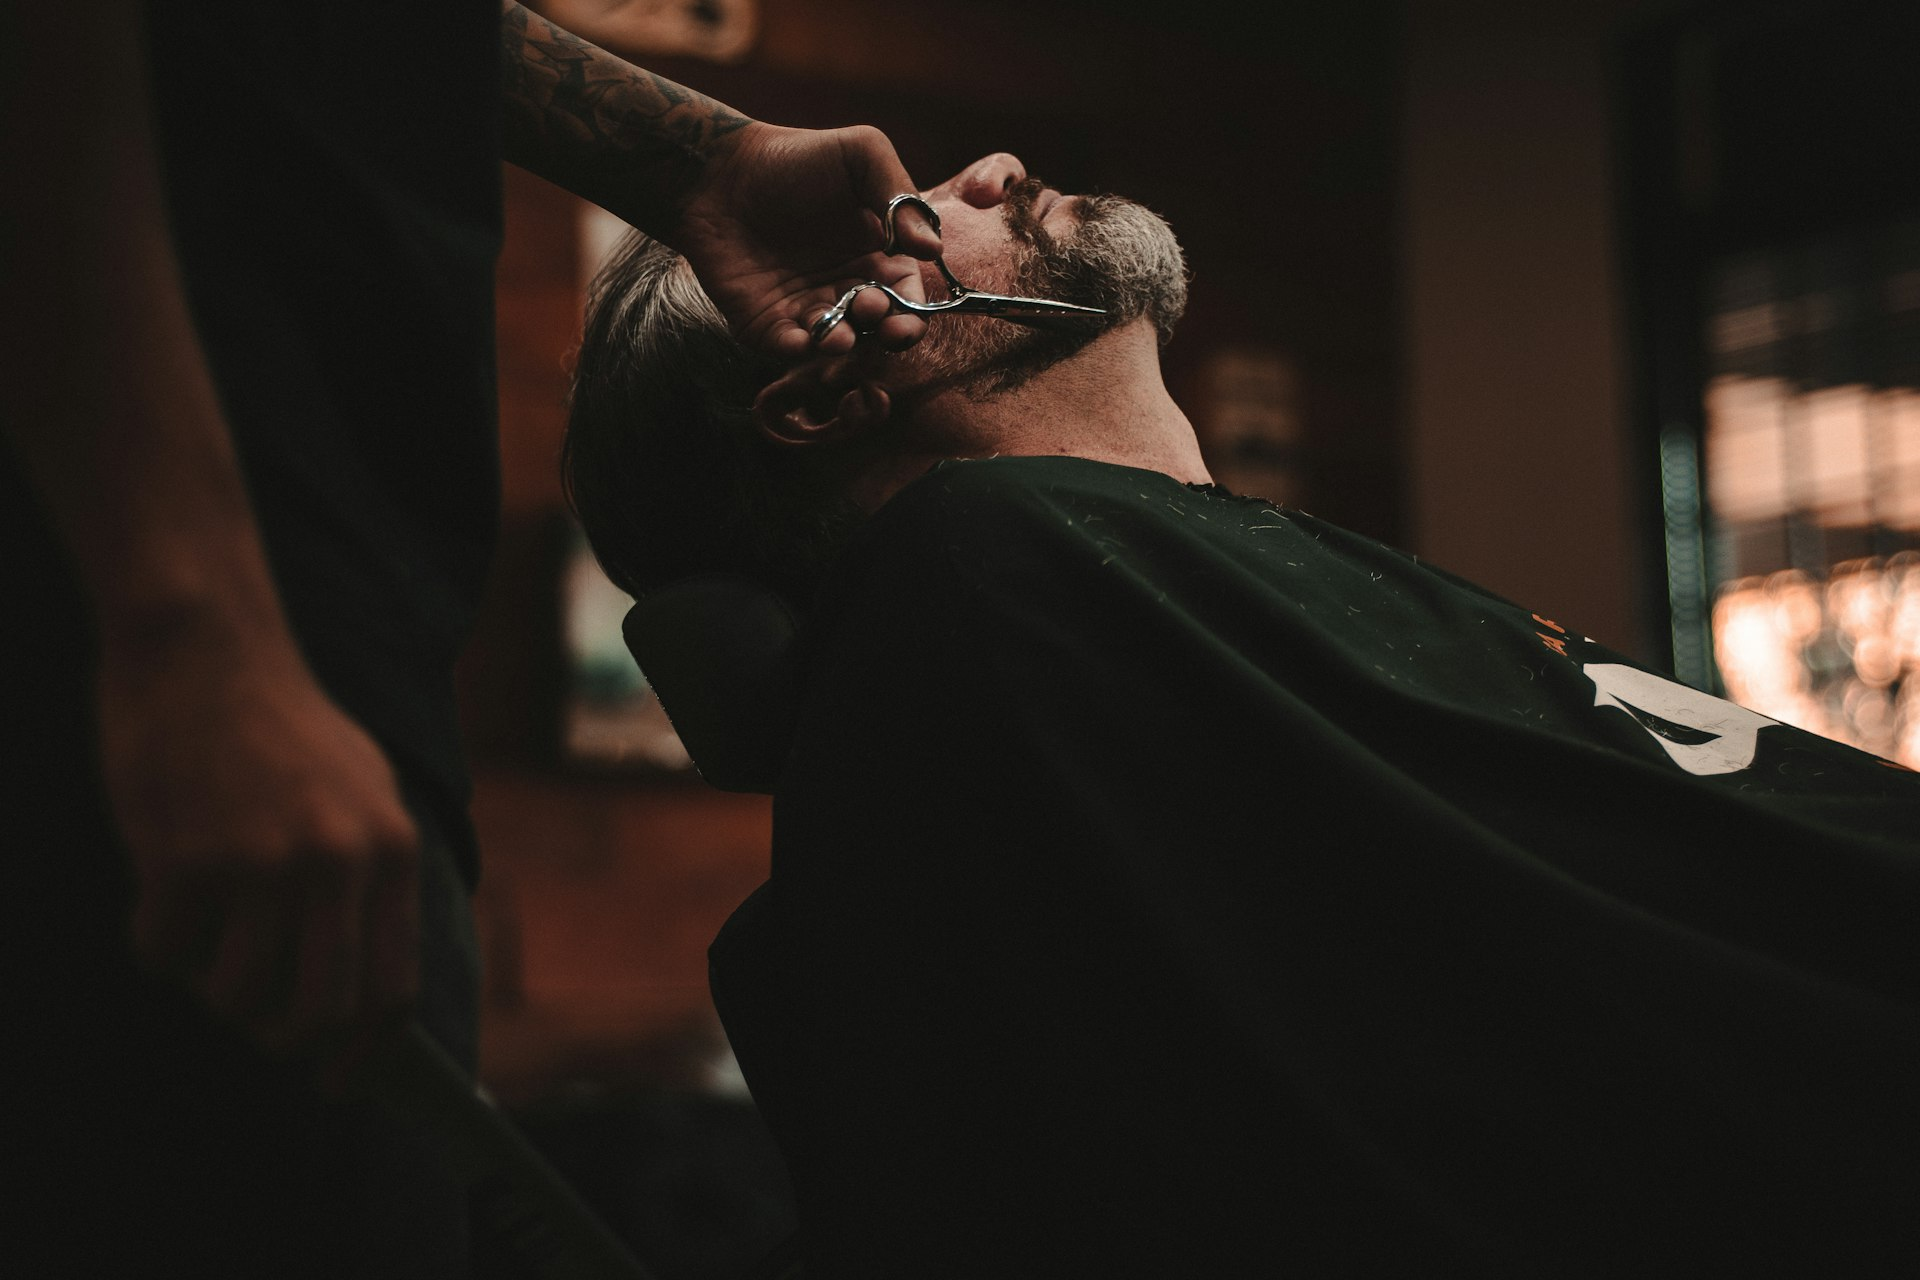
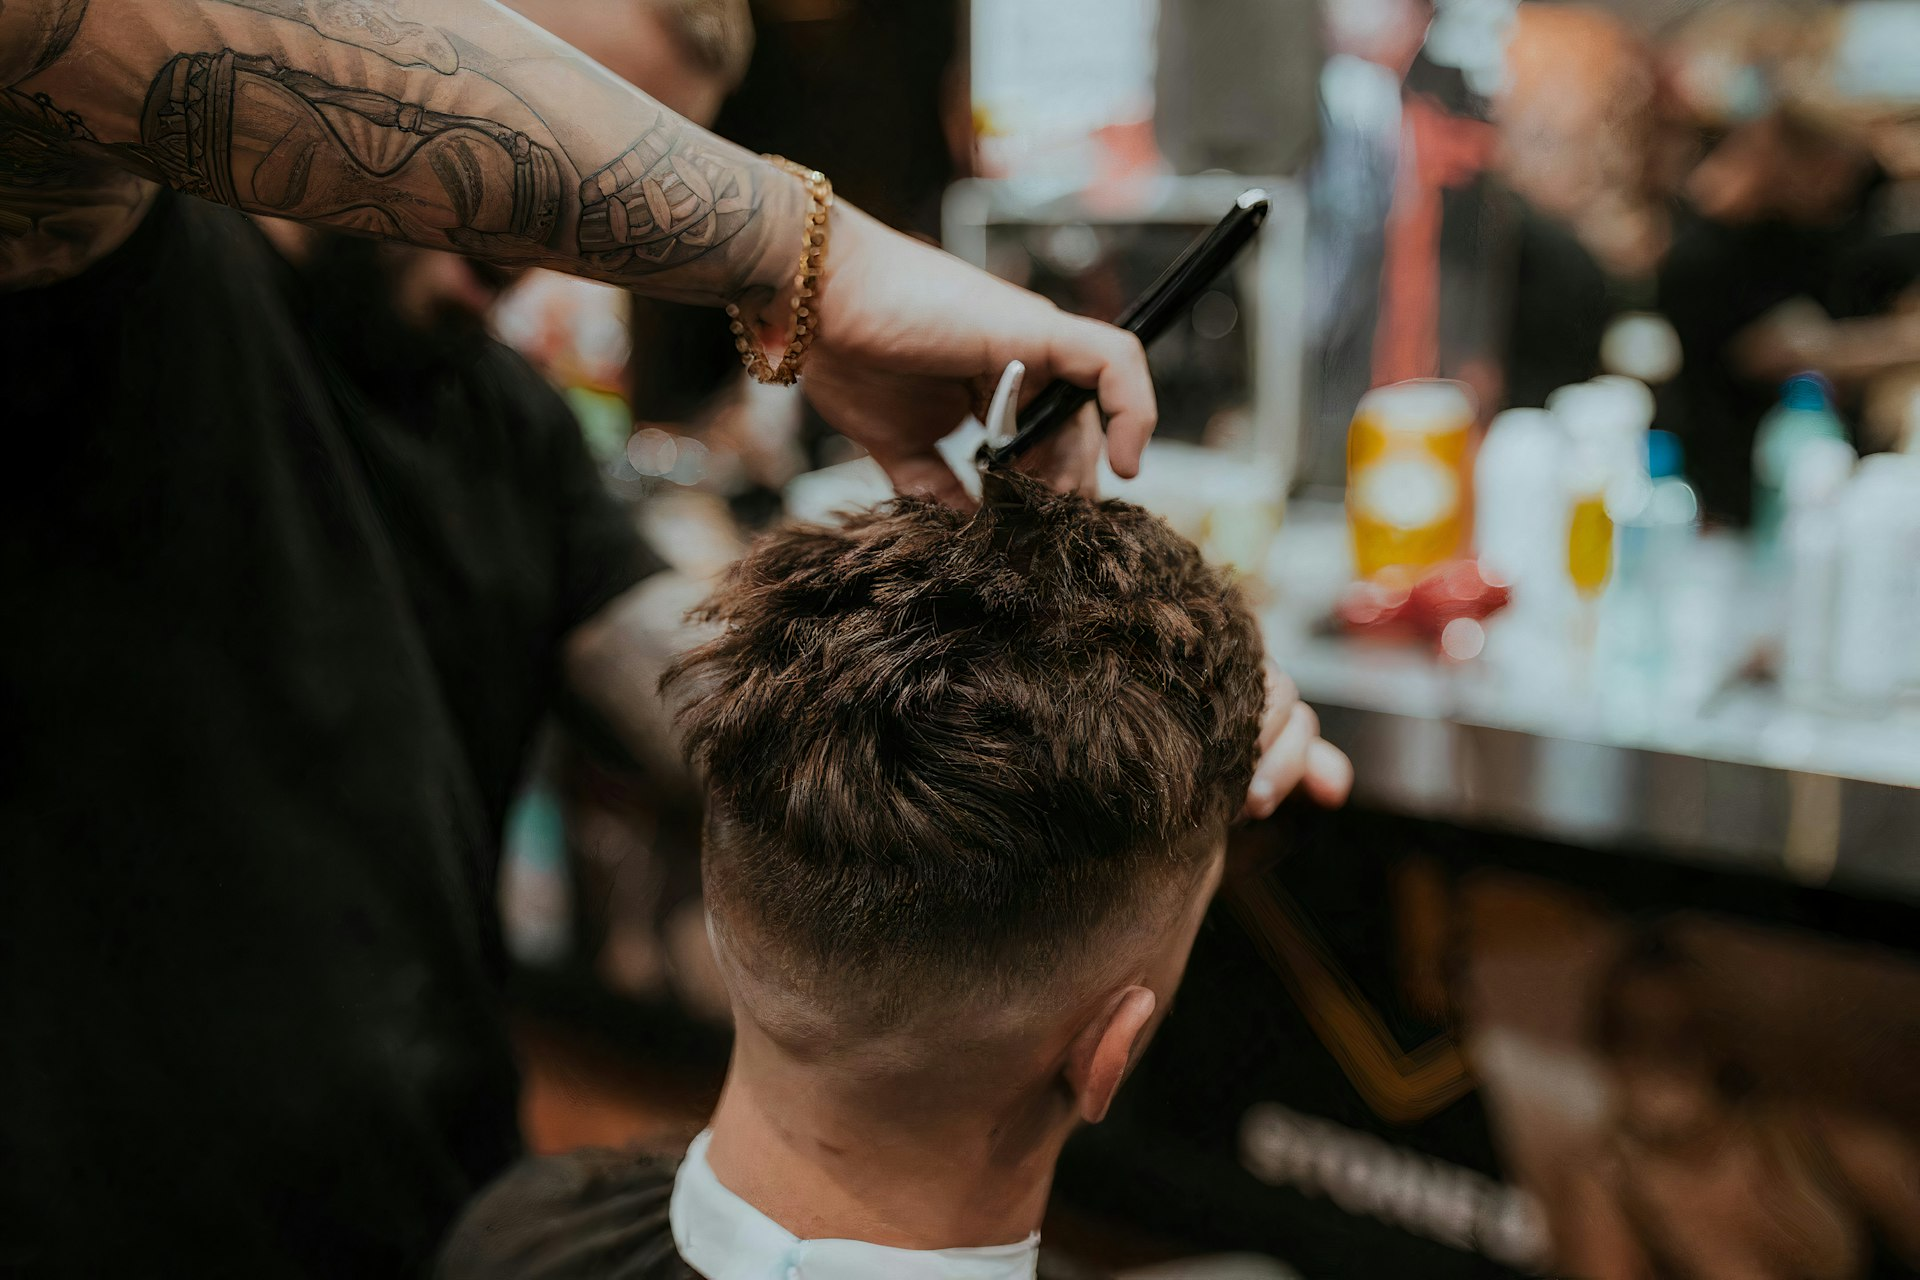
fix: web pública — team centrado, galería con fotos reales, footer responsive, reservas header

diff --git a/src/components/web/barbers/TheTeam.tsx b/src/components/web/barbers/TheTeam.tsx
@@ -4,12 +4,14 @@ const BARBERS = [
     specialty: "ESPECIALISTA EN CORTE",
     description:
       "Barbero con años de experiencia, especializado en cortes modernos y clásicos.",
+    photo: "/barbers/amado.jpg",
   },
   {
     name: "LUCAS FRENCHI",
     specialty: "ESPECIALISTA EN BARBA",
     description:
       "Apasionado por el detalle, experto en arreglo y perfilado de barba.",
+    photo: "/barbers/lucas.jpg",
   },
 ];
 
@@ -35,10 +37,15 @@ export function TheTeam() {
         </div>
 
         {/* Cards */}
-        <div className="grid grid-cols-1 sm:grid-cols-2 gap-10 max-w-2xl">
-          {BARBERS.map(({ name, specialty, description }) => (
+        <div className="grid grid-cols-1 md:grid-cols-2 gap-10 max-w-3xl mx-auto w-full">
+          {BARBERS.map(({ name, specialty, description, photo }) => (
             <div key={name} className="flex flex-col gap-4">
-              <div className="bg-zinc-800 w-full aspect-[3/4]" />
+              {/* eslint-disable-next-line @next/next/no-img-element */}
+              <img
+                src={photo}
+                alt={name}
+                className="w-full aspect-[3/4] object-cover object-center"
+              />
               <div className="flex flex-col gap-1 pb-5 border-b border-zinc-700">
                 <p className="text-[var(--color-accent)] text-[10px] tracking-widest uppercase font-semibold">
                   {specialty}

diff --git a/src/app/(web)/gallery/page.tsx b/src/app/(web)/gallery/page.tsx
@@ -9,19 +9,19 @@ export default function GalleryPage() {
       <GallerySection
         title="CORTES"
         subtitle="— CORTES DE PRIMER NIVEL"
-        images={["", "", "", ""]}
+        images={["/gallery/haircut-1.jpg", "/gallery/haircut-2.jpg", "/gallery/haircut-3.jpg", "/gallery/haircut-4.jpg"]}
         cols={4}
       />
       <GallerySection
         title="BARBA"
         subtitle="— NUNCA PASA DE MODA"
-        images={["", "", "", ""]}
+        images={["/gallery/beard-1.jpg", "/gallery/beard-2.jpg", "/gallery/beard-3.jpg", "/gallery/beard-4.jpg"]}
         cols={4}
       />
       <GalleryCarousel
         title="BIGOTE"
         subtitle="— LA ELECCIÓN CLÁSICA"
-        images={["", "", ""]}
+        images={["/gallery/mustache-1.jpg", "/gallery/mustache-2.jpg", "/gallery/mustache-3.jpg"]}
       />
     </main>
   );

diff --git a/src/components/web/barbers/BarbersHero.tsx b/src/components/web/barbers/BarbersHero.tsx
@@ -4,7 +4,7 @@ export function BarbersHero() {
 
       {/* eslint-disable-next-line @next/next/no-img-element */}
       <img
-        src="/services-bg.jpg"
+        src="/barbers-bg.jpg"
         alt=""
         aria-hidden="true"
         className="absolute inset-0 w-full h-full object-cover object-center"
@@ -14,13 +14,13 @@ export function BarbersHero() {
 
       <div className="relative z-10 w-full px-[10%] pb-16 flex flex-col gap-3">
         <p className="text-zinc-400 text-xs tracking-[0.3em] uppercase">
-          — BARBEROS ALTAMENTE CALIFICADOS
+          — CONOCÉ A NUESTRO EQUIPO
         </p>
         <h1
           className="font-black uppercase text-white"
           style={{ fontSize: "clamp(3.5rem, 8vw, 8rem)", lineHeight: 0.9 }}
         >
-          BARBERS
+          THE TEAM
         </h1>
       </div>
 

diff --git a/src/components/web/about/AboutServices.tsx b/src/components/web/about/AboutServices.tsx
@@ -26,13 +26,13 @@ export function AboutServices() {
           <img
             src="/services-bg.jpg"
             alt="Barbero en acción"
-            className="w-full h-48 object-cover object-center"
+            className="w-full h-72 object-cover object-center"
           />
           {/* eslint-disable-next-line @next/next/no-img-element */}
           <img
             src="/pricing-bg.jpg"
             alt="Afeitado con navaja"
-            className="w-full h-48 object-cover object-center"
+            className="w-full h-72 object-cover object-center"
           />
         </div>
 

diff --git a/src/app/(public)/layout.tsx b/src/app/(public)/layout.tsx
@@ -12,7 +12,7 @@ export default function PublicLayout({ children }: { children: React.ReactNode }
         style={{ backgroundColor: "rgba(10,10,10,0.85)", zIndex: -10 }}
       />
 
-      <header className="fixed top-0 left-0 right-0 z-50 flex items-center justify-between px-8 py-5">
+      <header className="fixed top-0 left-0 right-0 z-50 bg-black/90 flex items-center justify-between px-8 py-5">
         <Link href="/" className="text-white tracking-widest text-xs uppercase">
           SHAVE STUDIO
         </Link>

diff --git a/src/app/(public)/reservas/BarberServicePicker.tsx b/src/app/(public)/reservas/BarberServicePicker.tsx
@@ -40,7 +40,6 @@ export function BarberServicePicker({ barbers, initialBarberId = null, initialSe
 
         {/* Header */}
         <div className="text-center">
-          <p className="text-[#e63946] text-xs uppercase tracking-widest mb-2">SHAVE STUDIO</p>
           <h1 className="text-3xl font-black tracking-widest uppercase">Reserva tu turno</h1>
           <p className="text-zinc-400 text-sm mt-1 tracking-wide">
             {step === "selection" && "Elige tu barbero y el servicio"}

diff --git a/src/components/web/PricingSection.tsx b/src/components/web/PricingSection.tsx
@@ -20,7 +20,7 @@ export function PricingSection() {
       />
 
       {/* Overlay — tinte más rojizo */}
-      <div className="absolute inset-0" style={{ backgroundColor: "rgba(10, 10, 10, 0.68)" }} />
+      <div className="absolute inset-0" style={{ backgroundColor: "rgba(10, 10, 10, 0.55)" }} />
 
       {/* Content — left ~55% */}
       <div className="relative z-10 w-full py-24 px-[10%]">

diff --git a/src/components/web/WebFooter.tsx b/src/components/web/WebFooter.tsx
@@ -1,7 +1,7 @@
 export function WebFooter() {
   return (
     <footer className="bg-zinc-950 text-white">
-      <div className="max-w-6xl mx-auto px-6 py-16 grid grid-cols-1 md:grid-cols-3 gap-12">
+      <div className="max-w-6xl mx-auto px-6 py-12 md:py-16 grid grid-cols-1 md:grid-cols-3 gap-8">
 
         {/* Opening Hours */}
         <div className="flex flex-col gap-4">

diff --git a/src/components/web/about/AboutHero.tsx b/src/components/web/about/AboutHero.tsx
@@ -5,7 +5,7 @@ export function AboutHero() {
       {/* Background image */}
       {/* eslint-disable-next-line @next/next/no-img-element */}
       <img
-        src="/services-bg.jpg"
+        src="/about-bg.jpg"
         alt=""
         aria-hidden="true"
         className="absolute inset-0 w-full h-full object-cover object-center"

diff --git a/src/components/web/WebNav.tsx b/src/components/web/WebNav.tsx
@@ -7,7 +7,7 @@ import { useEffect, useState } from "react";
 const NAV_LINKS = [
   { href: "/", label: "HOME" },
   { href: "/about", label: "ABOUT" },
-  { href: "/barbers", label: "BARBERS" },
+  { href: "/barbers", label: "TEAM" },
   { href: "/gallery", label: "GALLERY" },
   { href: "/reservas", label: "RESERVAR" },
 ];

diff --git a/src/components/web/gallery/GalleryHero.tsx b/src/components/web/gallery/GalleryHero.tsx
@@ -4,7 +4,7 @@ export function GalleryHero() {
 
       {/* eslint-disable-next-line @next/next/no-img-element */}
       <img
-        src="/pricing-bg.jpg"
+        src="/gallery-bg.jpg"
         alt=""
         aria-hidden="true"
         className="absolute inset-0 w-full h-full object-cover object-center"
